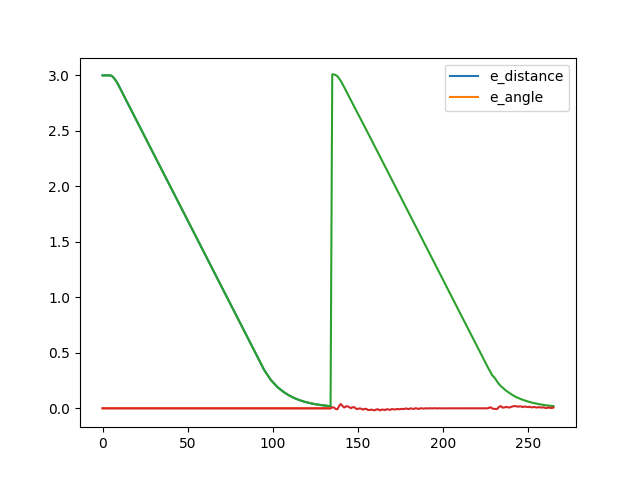
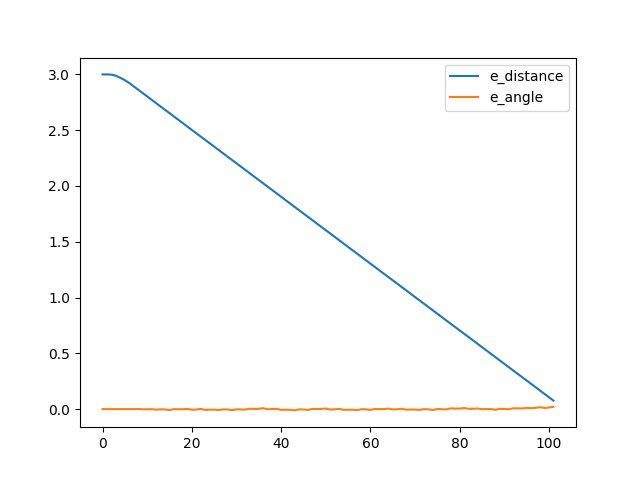
try using laser and messages

diff --git a/src/try_message.py b/src/try_message.py
@@ -6,23 +6,22 @@ from rospy.rostime import Duration
 from tf.transformations import euler_from_quaternion, quaternion_from_euler
 from geometry_msgs.msg import Twist
 from nav_msgs.msg import Odometry
-from formation.msg import To_Goal
+from formation.msg import arrive, ready
 from sensor_msgs.msg import LaserScan
 
 class go_to_Goal:
     def __init__(self):
+        #initialization
         self.follow = Twist()
-        self.follower1 = Twist()
-        self.follower2 = Twist()
-        self.arrive = To_Goal()
-        self.other_arrive_1 = To_Goal()
-        self.other_arrive_2 = To_Goal()
+        self.arrive = arrive()
+        self.ready = ready()
+        self.other_turtle_1_ready = ready()
+        self.other_turtle_2_ready = ready()
         self.scan = LaserScan()
         self.rate = rospy.Rate(10)
         self.sleeper = rospy.Rate(5)
         self.x, self.y, self.z, self.a1 = 0, 0, 0, 0
-        self.vel_1_linear, self.vel_1_angular, self.vel_2_linear, self.vel_2_angular = 0, 0, 0, 0
-        self.other_arrive_1, self.other_arrive_2 = False, False
+        self.arrive, self.ready, self.other_turtle_1_ready, self.other_turtle_2_ready = False, False, False, False
 
         #All the parameter
         self.name = rospy.get_param('~turtle')
@@ -32,13 +31,14 @@ class go_to_Goal:
 
         #All the publisher
         self.pub_vel = rospy.Publisher('/%s/cmd_vel' % self.name, Twist, queue_size=1)
-        self.pub_vel_1 = rospy.Publisher('/%s/cmd_vel' % self.others1, Twist, queue_size=1)
-        self.pub_vel_2 = rospy.Publisher('/%s/cmd_vel' % self.others2, Twist, queue_size=1)
+        self.pub_arrive = rospy.Publisher('%s_arrive' % self.name, arrive, queue_size=1)
+        self.pub_ready = rospy.Publisher('%s_ready' % self.name, ready, queue_size=1)
 
         #All the subscriber
         self.turtle = rospy.Subscriber('/%s/odom' % self.name, Odometry, self.turtle_odom)
-        self.other_turtle1 = rospy.Subscriber('/%s/cmd_vel' % self.others1, Twist, self.turtle_vel_1)
-        self.other_turtle2 = rospy.Subscriber('/%s/cmd_vel' % self.others2, Twist, self.turtle_vel_2)
+        self.other_turtle1_ready = rospy.Subscriber('%s_ready' % self.others1, ready, self.turtle_1_ready)
+        self.other_turtle2_ready = rospy.Subscriber('%s_ready' % self.others2, ready, self.turtle_2_ready)
+        self.laser_scan = rospy.Subscriber('/%s/scan' % self.name, LaserScan, self.turtle_scan)
         
         #generate trajectory
         self.traj = self.traj_trans(3, self.offset, 5)
@@ -50,38 +50,38 @@ class go_to_Goal:
                 point = self.traj[i]
                 if self.go_to_goal(point[0], point[1]):
                     
-                    while (self.vel_1_linear != 0) or (self.vel_2_linear != 0) or (self.vel_1_angular != 0) or (self.vel_2_angular != 0):
+                    #wait for other robots to arrive at the waypoints
+                    while not (self.other_turtle_1_ready and self.other_turtle_2_ready):
                         self.follow.linear.x = 0
                         self.follow.angular.z = 0
                         self.pub_vel.publish(self.follow)
                         self.rate.sleep()
-                        
-                        #self.pub_arrive_1.publish(self.arrive)
-                        #self.pub_arrive_2.publish(self.arrive) 
+
+                    #plot the error    
                     plt.plot(self.log[1:])
                     plt.legend(['e_distance','e_angle'])
                     plt.savefig('/home/jack/catkin_ws/src/formation/error_plot/%spath_data.png' % self.name)
                     continue
 
                 else:
+                    #go back to the last waypoint if the robot can't arrive 
                     print ('invalid goal, return to last point')
                     if self.go_to_goal(self.traj[i-1][0],self.traj[i-1][1]):
                         continue
 
             self.follow.linear.x = 0
             self.follow.angular.z = 0
-            self.pub = rospy.Publisher('/%s/cmd_vel' % self.name, Twist, queue_size=1)
             self.pub_vel.publish(self.follow)
             break
     
     def turtle_scan(self, msg):
-        self.other_scan = msg
+        self.scan = msg
 
-    def turtle_arrive_1(self, msg):
-        self.other_arrive_1 = msg
+    def turtle_1_ready(self, msg):
+        self.other_turtle_1_ready = msg
 
-    def turtle_arrive_2(self, msg):
-        self.other_arrive_2 = msg    
+    def turtle_2_ready(self, msg):
+        self.other_turtle_2_ready = msg    
 
     def turtle_odom(self, msg):
         self.msg1 = msg
@@ -95,6 +95,7 @@ class go_to_Goal:
         self.a1 = yaw
 
     def traj_trans(self, length, offset, num):
+        #trajectory generator
         dir = 1
         ans = [[0, offset]]
         for i in range(1, num):
@@ -107,16 +108,6 @@ class go_to_Goal:
             dir *= -1
         return ans
 
-    def turtle_vel_1(self, msg):
-        self.msg111 = msg
-        self.vel_1_linear = self.msg111.linear.x
-        self.vel_1_angular = self.msg111.angular.z
-    
-    def turtle_vel_2(self, msg):
-        self.msg222 = msg
-        self.vel_2_linear = self.msg222.linear.x
-        self.vel_2_angular = self.msg222.angular.z
-
     def angle_trans(self, angle):
         #calculate the correct difference between two angles
         self.angle = angle
@@ -128,54 +119,22 @@ class go_to_Goal:
 
     def go_to_goal(self, x_goal, y_goal):
         mission_time_begin = rospy.Time.now()
-        #keep the robot on the correct orientation
-        #self.arrive.arrive = False
-        #self.pub_arrive_1.publish(self.arrive)
-        #self.pub_arrive_2.publish(self.arrive)
+        self.ready = False
+        self.arrive = False
+        self.pub_arrive.publish(self.arrive)
+        self.pub_ready.publish(self.ready)
+
+        #PID parameters
         K_angular = [4, 1, 8]
         K_linear = [1.5, 0.1, 3]
-        I = 0
-        desired_angle_goal = math.atan2(y_goal - self.y, x_goal - self.x)
-        angle = desired_angle_goal - self.a1
-        angle = self.angle_trans(angle)
-        while (abs(angle) > 0.01):
-            desired_angle_goal = math.atan2(y_goal - self.y, x_goal - self.x)
-            angle_0 = desired_angle_goal - self.a1
-            time_begin = rospy.Time.now()
-            self.rate.sleep()
-            time_end = rospy.Time.now()
-            duration = (time_end - time_begin).to_sec()
-            desired_angle_goal = math.atan2(y_goal - self.y, x_goal - self.x)
-            angle = desired_angle_goal - self.a1
-            angle = self.angle_trans(angle)
-            if duration == 0:
-                continue
-            
-            I = I + K_angular[1] * duration * (angle+angle_0)/2
+        I = 0 
 
-            angular_speed = (angle * K_angular[0] + I + K_angular[2] * (angle-angle_0)/duration)
-            
-            linear_speed = 0
-            if angular_speed > 0.2:
-                angular_speed = 0.2
-            if angular_speed < -0.2:
-                angular_speed = -0.2
-
-            self.follow.linear.x = linear_speed
-            self.follow.angular.z = angular_speed
-            self.pub_vel.publish(self.follow)  
-
-        # self.rate.sleep()
-
-        # while (self.vel_1_angular != 0) or (self.vel_2_angular != 0):
-        #     self.follow.linear.x = 0
-        #     self.follow.angular.z = 0
-        #     self.pub_vel.publish(self.follow)
+        desired_angle_goal, angle = 0, 0
                 
         I_linear = 0
         I_angular = 0
 
-        while (True):
+        while not (self.arrive):
 
             desired_angle_goal = math.atan2(y_goal - self.y, x_goal - self.x)
             angle_0 = desired_angle_goal - self.a1
@@ -201,7 +160,7 @@ class go_to_Goal:
            
             linear_speed = distance * K_linear[0] + I_linear + K_linear[2] * (distance-distance_0)/duration
 
-            #angular speed and linear speed control
+            #angular speed and linear speed limitation
             if linear_speed > 0.3:
                 linear_speed = 0.3
             if angular_speed > 0.1:
@@ -209,41 +168,76 @@ class go_to_Goal:
             if angular_speed < -0.1:
                 angular_speed = -0.1
 
+            
             #check if robot is in formation with others
-            # if abs(self.scan.ranges[90]) == math.inf:
-            #     self.follow.linear.x = 0
-            #     self.follow.angular.z = 0
-            #     self.pub_vel.publish(self.follow)
+            infinity = float('inf')
+            if len(self.scan.ranges) > 0:
+                if self.other_turtle_1_ready or self.other_turtle_2_ready:
+                    pass
+                else:
+                    while (abs(self.scan.ranges[90]) == infinity) and abs(self.scan.ranges[-90]) == infinity:
+                        self.follow.linear.x = 0
+                        self.follow.angular.z = 0
+                        self.pub_vel.publish(self.follow)
 
-            #wait for other robot to turn to the correct orientation
             self.follow.linear.x = linear_speed
             self.follow.angular.z = angular_speed
-            self.pub = rospy.Publisher('/%s/cmd_vel' % self.name, Twist, queue_size=1)
             self.pub_vel.publish(self.follow)
-            #print ('x=', self.x, 'y=', self.y)
             self.log.append([distance,angle])
-
-
-            if (rospy.Time.now() - mission_time_begin).to_sec() > 60:
-                return False
+            print(self.name)
+            print(self.other_turtle_1_ready)
+            print(self.other_turtle_2_ready)
+            print('   ')
+        
             if (distance < 0.1):
                 self.follow.linear.x = 0
                 self.follow.angular.z = 0
                 self.pub_vel.publish(self.follow)
                 self.rate.sleep()
-                #self.arrive.arrive = True
-                #self.pub_arrive_1.publish(self.arrive)
-                #self.pub_arrive_2.publish(self.arrive)
-                return True
+                desired_angle_goal = math.atan2(y_goal - self.y, x_goal - self.x)
+                self.arrive = True
+
+        #After arriving at a waypoint, turn the robot until it faces the next waypoint       
+        while (abs(angle) > 0.01):
+            desired_angle_goal = math.atan2(y_goal - self.y, x_goal - self.x)
+            angle_0 = desired_angle_goal - self.a1
+            time_begin = rospy.Time.now()
+            self.rate.sleep()
+            time_end = rospy.Time.now()
+            duration = (time_end - time_begin).to_sec()
+            desired_angle_goal = math.atan2(y_goal - self.y, x_goal - self.x)
+            angle = desired_angle_goal - self.a1
+            angle = self.angle_trans(angle)
+            if duration == 0:
+                continue
             
+            I = I + K_angular[1] * duration * (angle+angle_0)/2
+
+            angular_speed = (angle * K_angular[0] + I + K_angular[2] * (angle-angle_0)/duration)
+            
+            linear_speed = 0
+            if angular_speed > 0.2:
+                angular_speed = 0.2
+            if angular_speed < -0.2:
+                angular_speed = -0.2
+
+            self.follow.linear.x = linear_speed
+            self.follow.angular.z = angular_speed
+            self.pub_vel.publish(self.follow) 
+        
+        self.ready = True
+        self.pub_ready.publish(self.ready)
+
+        if (rospy.Time.now() - mission_time_begin).to_sec() > 60:
+            return False
+
+        return True
 
 if __name__ == '__main__':
-
 
     rospy.init_node('turtlesim_motion_pose', anonymous=True)
     try:
         f = go_to_Goal()
-
 
     except rospy.ROSInterruptException:
         rospy.loginfo("node terminated.")
